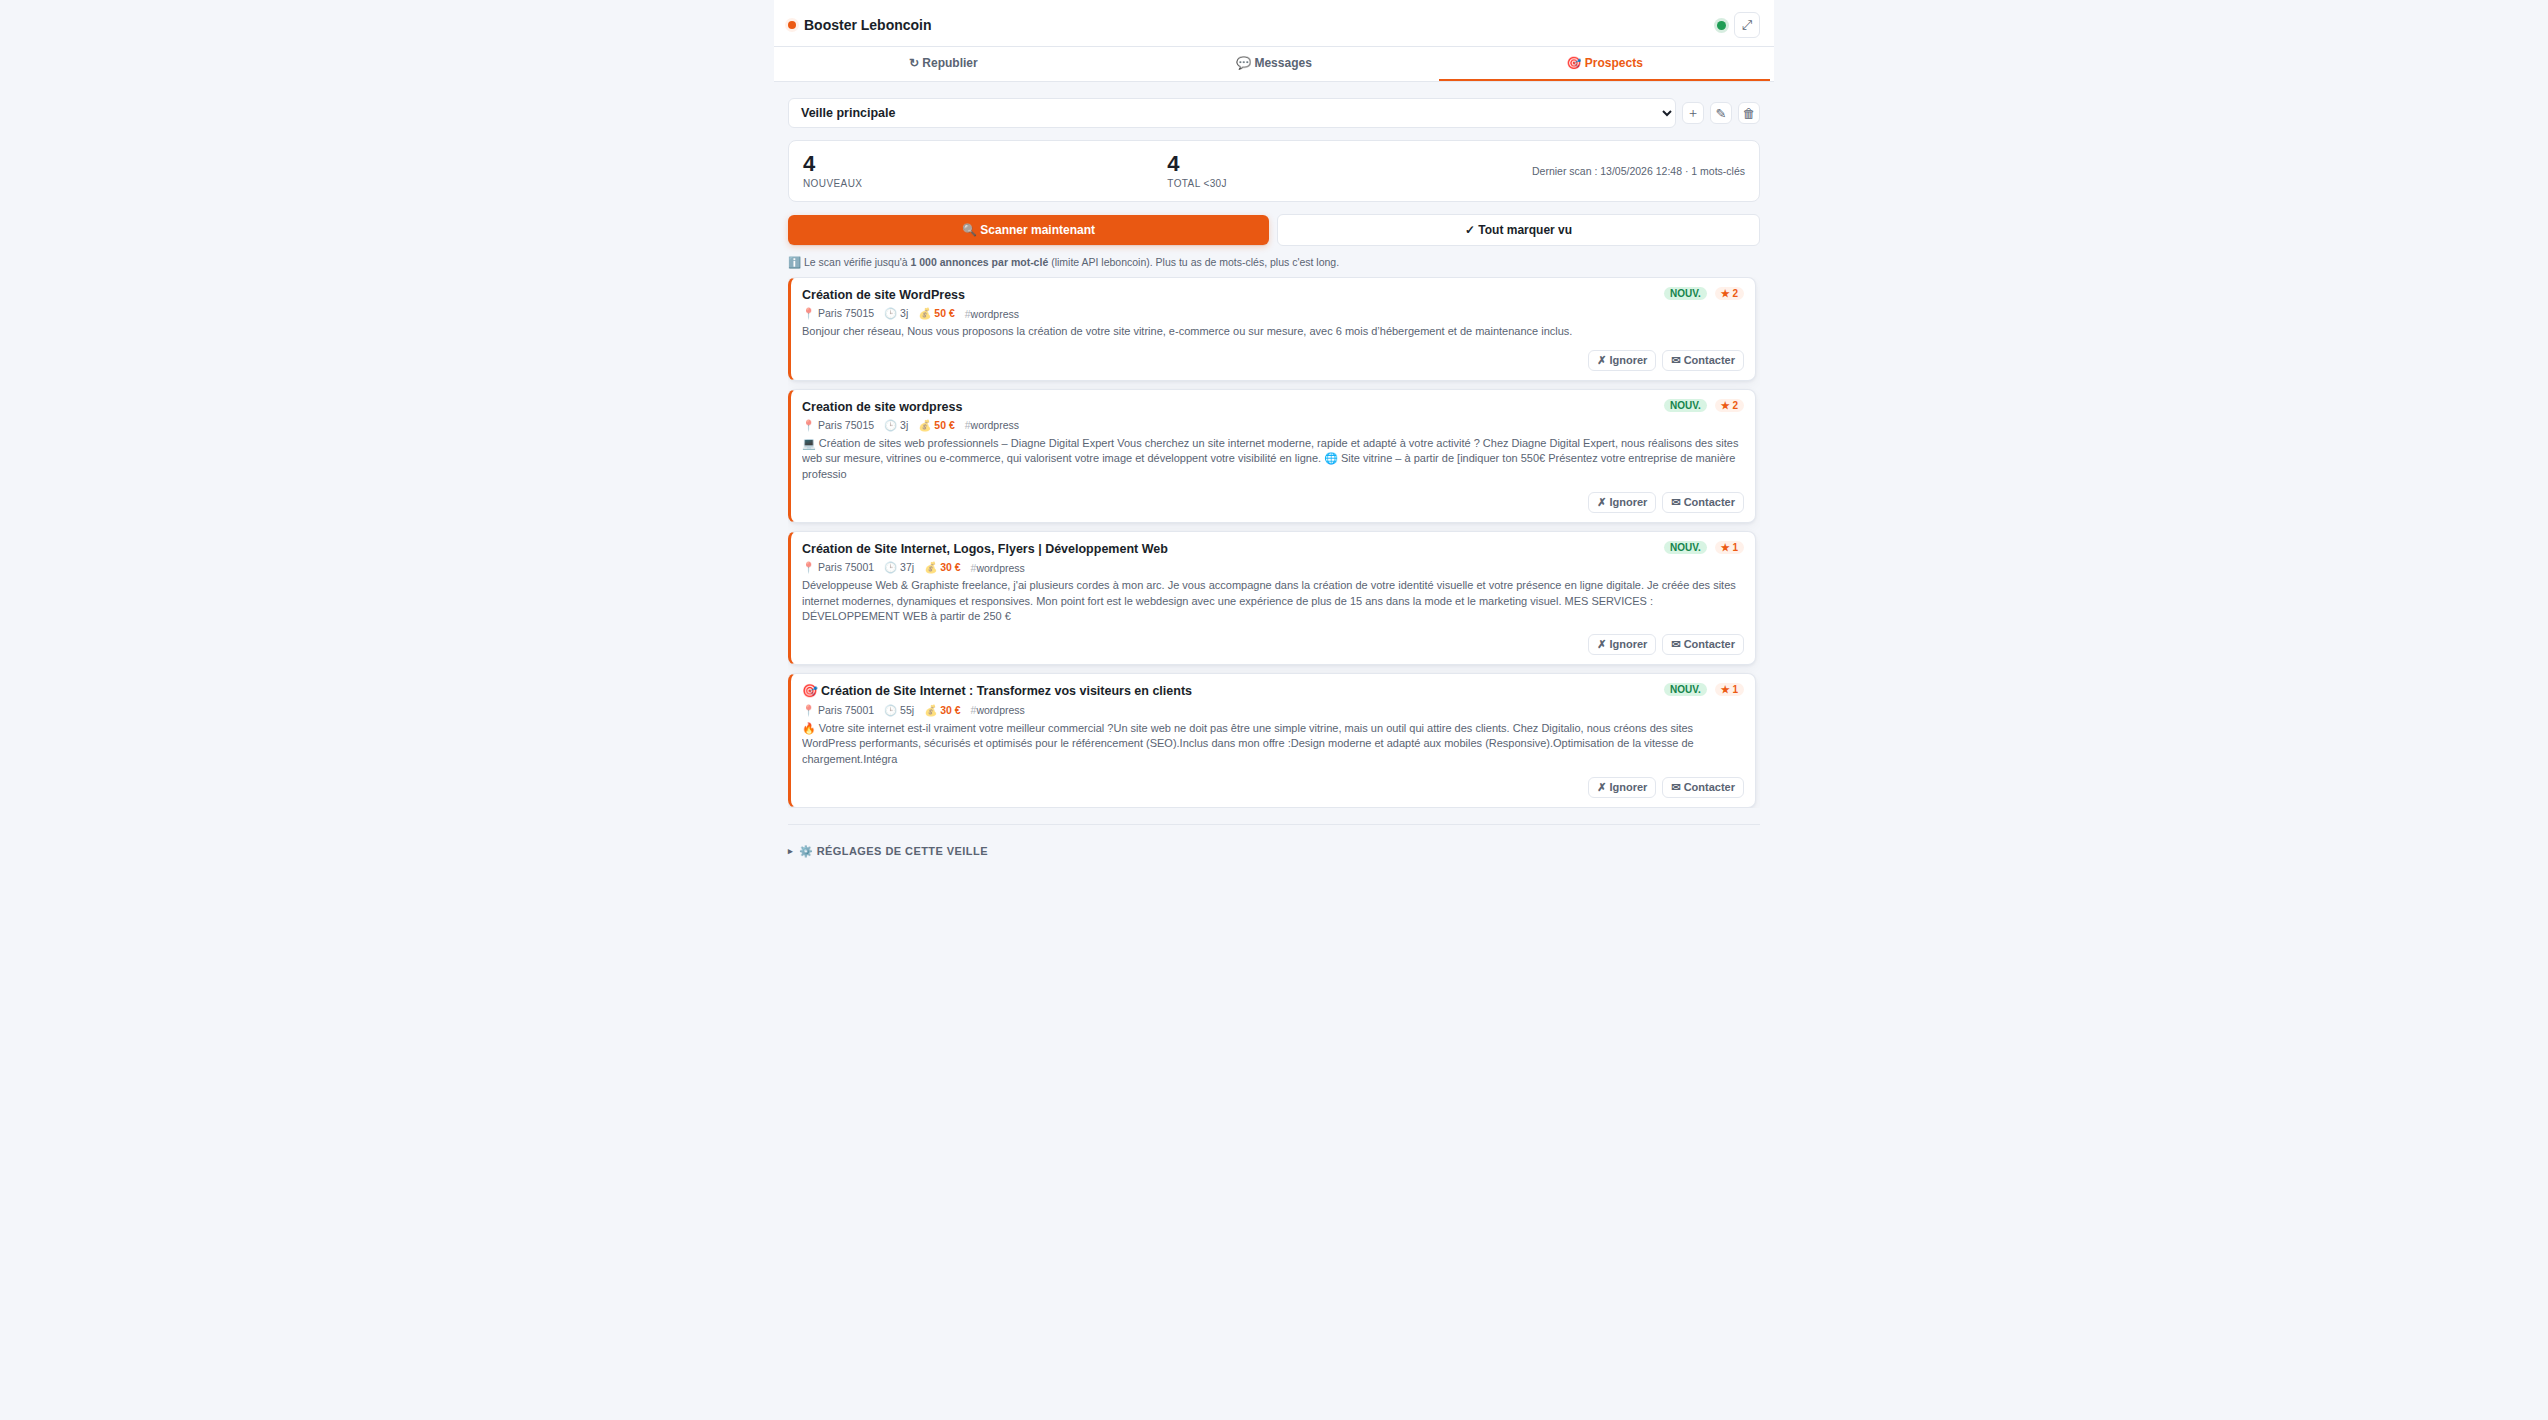
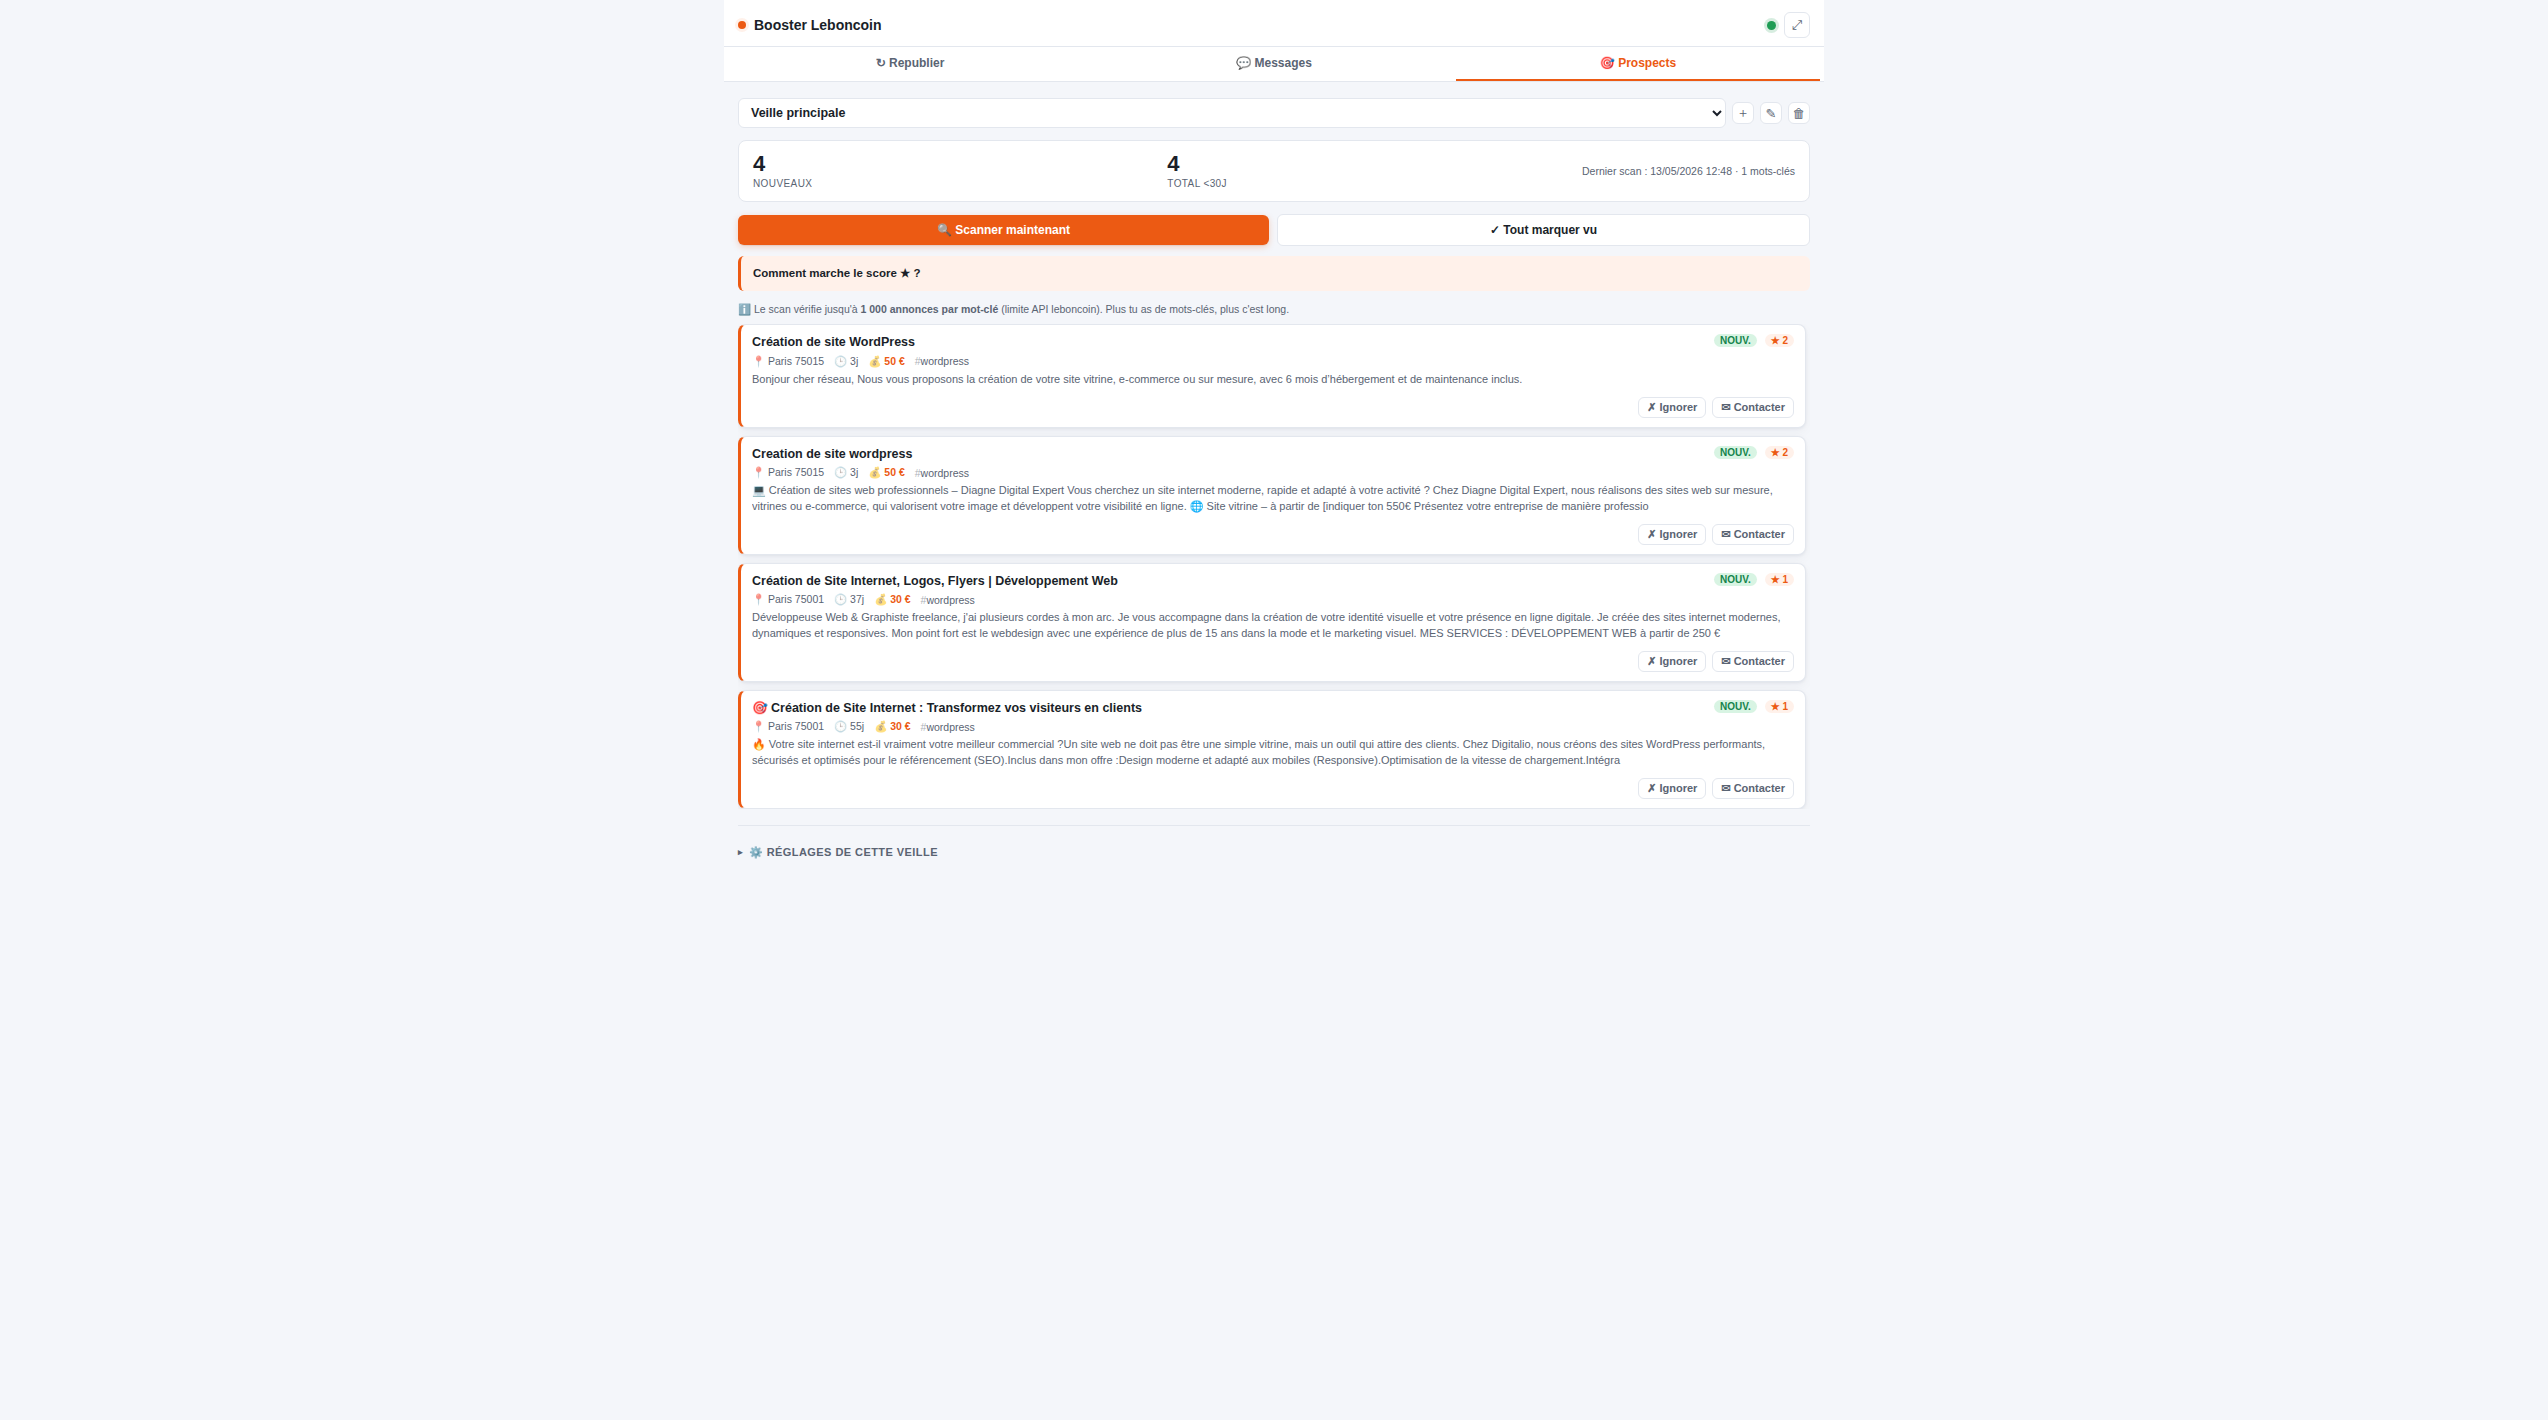
polish: doc + tooltips visibles + tri date inbox
- Prospects : score-help sorti des Réglages, visible en haut comme
  <details> collapsé. Plus besoin d'ouvrir les réglages pour
  comprendre le score.
- Prospects : tooltip explicite sur 'Tout marquer vu'.
- Republier : bouton 'Charger mes annonces' au lieu de 'Charger',
  tooltip décrivant l'action.
- Messages : 'Boîte chargée il y a X' affiché sous la stat-row.
- Messages : tri par lastMessageDate DESC (plus récent en haut).

diff --git a/popup/popup.html b/popup/popup.html
@@ -38,7 +38,7 @@
     <div class="section">
       <div class="section-title-row">
         <h2 class="section-title">Mes annonces</h2>
-        <button class="btn ghost small" id="b-refresh-listings" title="Recharger depuis leboncoin">⟳ Charger</button>
+        <button class="btn ghost small" id="b-refresh-listings" title="Va sur leboncoin.fr récupérer la liste de tes annonces actives (titre, photos, statut).">⟳ Charger mes annonces</button>
       </div>
 
       <details class="score-help" id="b-help">
@@ -139,6 +139,7 @@
       <div class="stat"><span class="n stat-spam" id="m-stat-spam">–</span><span class="l">🗑 Spam</span></div>
       <div class="stat"><span class="n stat-archived" id="m-stat-archived">–</span><span class="l">📦 Archivés</span></div>
     </div>
+    <div class="last-run" id="m-last-run"></div>
 
     <div class="row" style="margin-bottom: 10px;">
       <button class="btn primary" id="m-refresh">🔄 Rafraîchir la boîte</button>
@@ -195,10 +196,22 @@
 
     <div class="row" style="margin-bottom: 10px;">
       <button class="btn primary" id="p-scan">🔍 Scanner maintenant</button>
-      <button class="btn secondary" id="p-mark-seen">✓ Tout marquer vu</button>
+      <button class="btn secondary" id="p-mark-seen" title="Retire le badge NOUV. de toutes les annonces affichées. N'efface rien — c'est juste un reset visuel.">✓ Tout marquer vu</button>
     </div>
 
     <div class="scan-progress" id="p-scan-progress" hidden></div>
+
+    <details class="score-help">
+      <summary><strong>Comment marche le score ★ ?</strong></summary>
+      <ul>
+        <li>Chaque mot-clé matché dans le <strong>titre</strong> → <code>+2 × poids</code></li>
+        <li>Matché seulement dans la <strong>description</strong> → <code>+1 × poids</code></li>
+        <li>Le titre contient <em>cherche / recherche / besoin / aide / demande / quelqu'un / conseil</em> → <code>+1</code></li>
+      </ul>
+      Poids par défaut : 1. Pour booster un mot-clé important, écris <code>recalbox:3</code> (poids 3).<br>
+      <strong>Survole le ★ d'une carte</strong> pour voir le détail du calcul.<br>
+      <strong>Score min</strong> = filtre d'affichage. <strong>Notif si score ≥</strong> = seuil pour t'alerter.
+    </details>
 
     <p class="section-hint" id="p-empty-hint">
       Le scan interroge l'API leboncoin sur tes mots-clés (par défaut&nbsp;: profils dev/web/IA/automatisation).
@@ -213,18 +226,6 @@
 
     <details class="section">
       <summary><h2 class="section-title">⚙️ Réglages de cette veille</h2></summary>
-
-      <div class="score-help">
-        <strong>Comment marche le score ★ ?</strong>
-        <ul>
-          <li>Chaque mot-clé matché dans le <strong>titre</strong> → <code>+2 × poids</code></li>
-          <li>Matché seulement dans la <strong>description</strong> → <code>+1 × poids</code></li>
-          <li>Le titre contient <em>cherche / recherche / besoin / aide / demande / quelqu'un / conseil</em> → <code>+1</code></li>
-        </ul>
-        Poids par défaut : 1. Pour booster un mot-clé important, écris <code>recalbox:3</code> (poids 3).<br>
-        <strong>Survole le ★ d'une carte</strong> pour voir le détail du calcul.<br>
-        <strong>Score min</strong> = filtre d'affichage. <strong>Notif si score ≥</strong> = seuil pour t'alerter.
-      </div>
 
       <label class="toggle">
         <input type="checkbox" id="p-enabled">

diff --git a/popup/popup.js b/popup/popup.js
@@ -201,7 +201,7 @@ function renderListings(stored, selectedIds) {
     empty.className = 'empty';
     empty.textContent = stored?.fetchedAt
       ? 'Aucune annonce trouvée. Es-tu connecté à leboncoin ?'
-      : 'Clique ⟳ Charger pour récupérer tes annonces.';
+      : 'Clique ⟳ Charger mes annonces pour récupérer tes annonces.';
     b.listings.appendChild(empty);
     updateSelectionHint(stored, selectedIds);
     return;
@@ -358,7 +358,7 @@ b.refreshListings.addEventListener('click', async () => {
     renderListings(r.result, new Set(settings.onlyAdIds || []));
   } finally {
     b.refreshListings.disabled = false;
-    b.refreshListings.innerHTML = '⟳ Charger';
+    b.refreshListings.innerHTML = '⟳ Charger mes annonces';
   }
 });
 
@@ -769,11 +769,18 @@ async function loadInbox() {
 
   const errorBanner = document.getElementById('m-error-banner');
   const errorText = document.getElementById('m-error-text');
+  const lastRunEl = document.getElementById('m-last-run');
   if (inboxLastRun?.error) {
     errorBanner.hidden = false;
     errorText.textContent = `Le chargement a échoué : ${inboxLastRun.error}`;
+    if (lastRunEl) lastRunEl.textContent = '';
   } else {
     errorBanner.hidden = true;
+    if (lastRunEl) {
+      lastRunEl.textContent = inboxLastRun?.at
+        ? 'Boîte chargée ' + relativeTime(new Date(inboxLastRun.at))
+        : 'Jamais chargée';
+    }
   }
 
   renderInbox(inboxCache, new Set(inboxDismissed));
@@ -884,6 +891,12 @@ function renderInbox(cache, dismissed) {
     hint.textContent = 'Aucune conversation dans cette catégorie.';
     return;
   }
+
+  visible.sort((a, b) => {
+    const da = new Date(a.lastMessageDate || 0).getTime();
+    const db = new Date(b.lastMessageDate || 0).getTime();
+    return db - da;
+  });
 
   for (const conv of visible) {
     list.appendChild(renderInboxCard(conv, dismissed, { isArchived }));